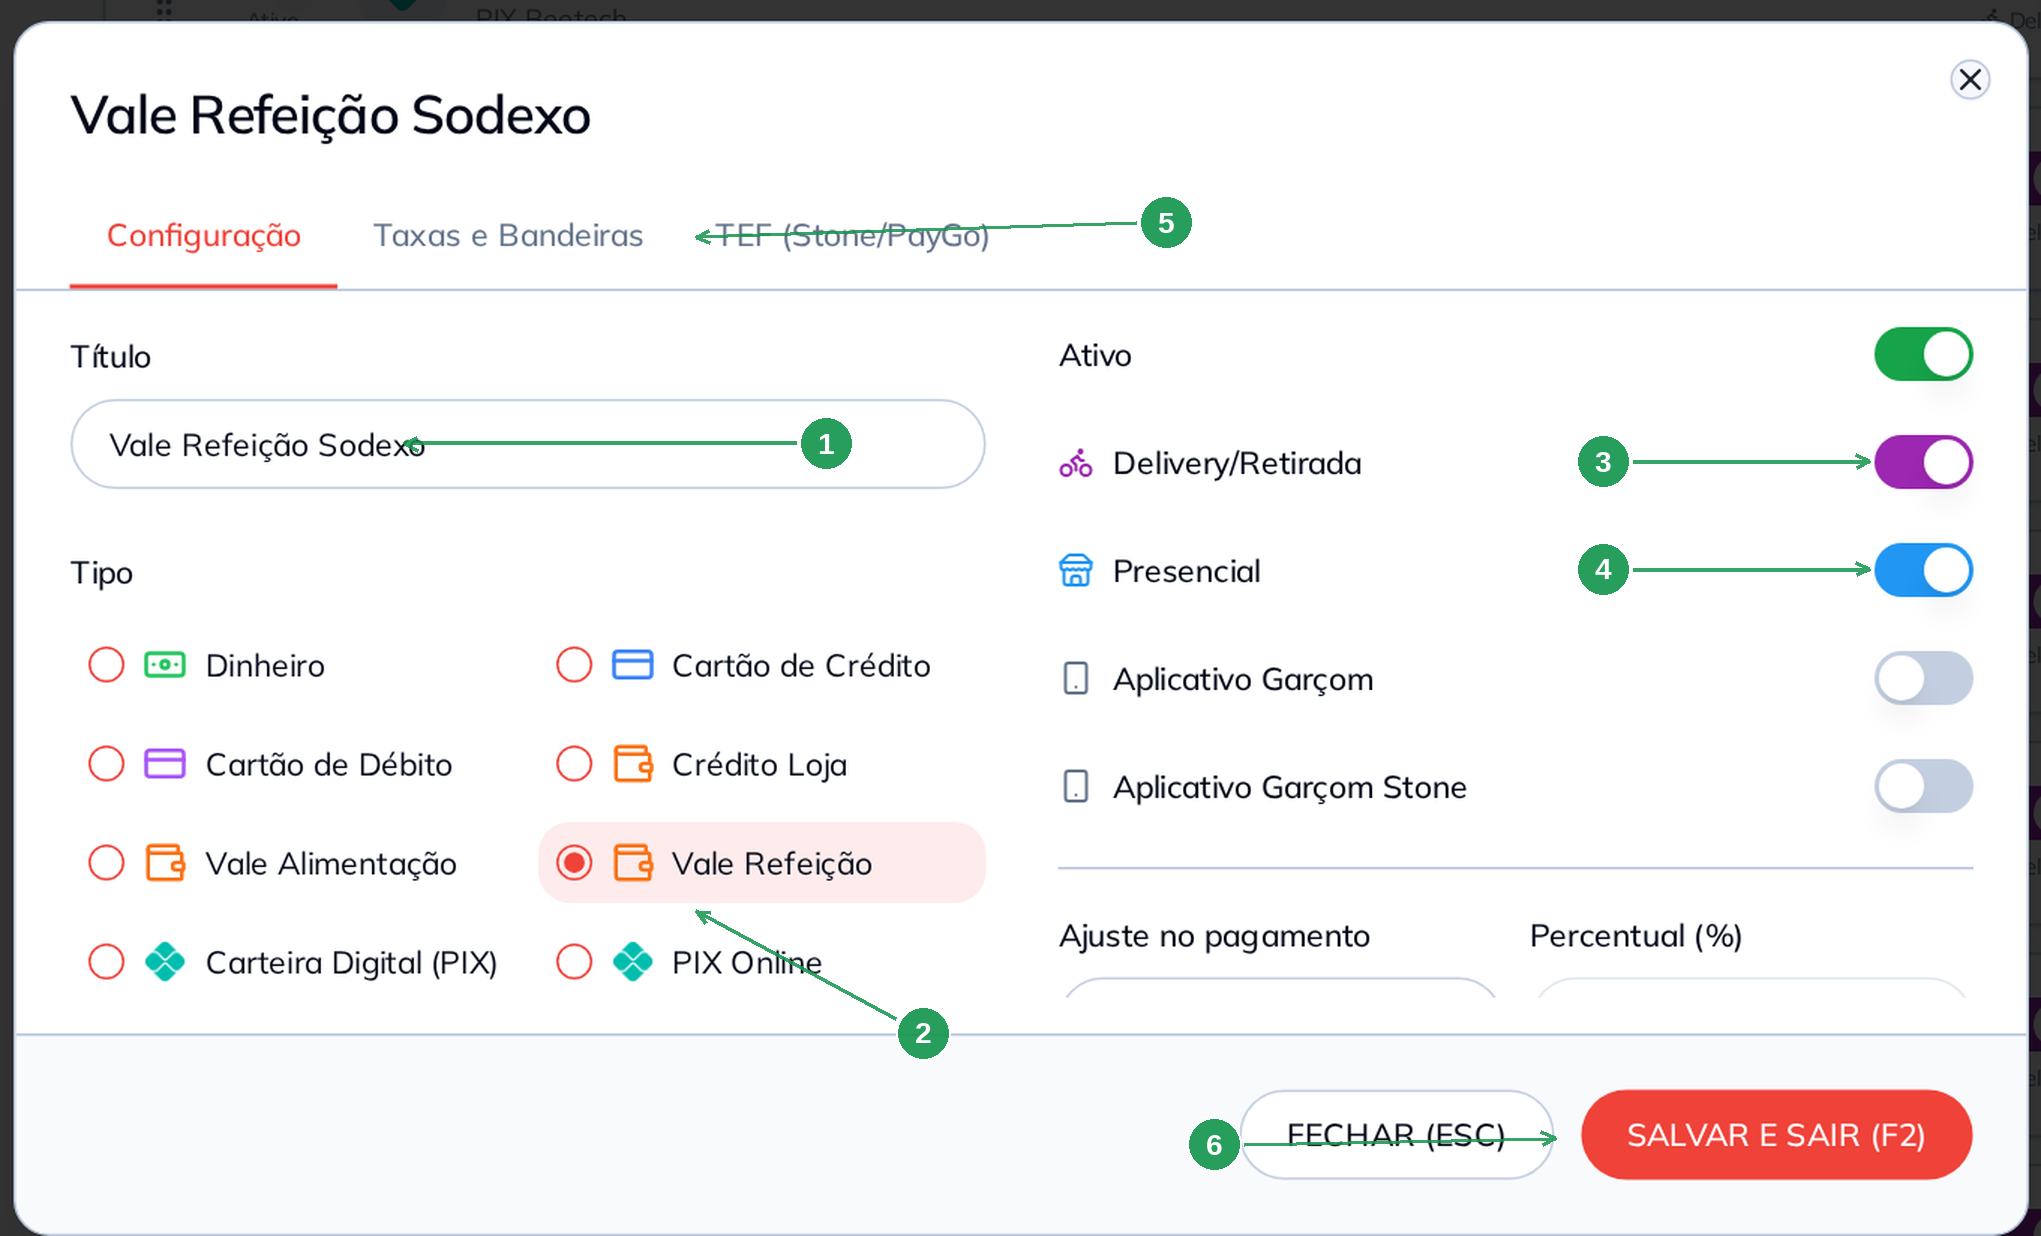
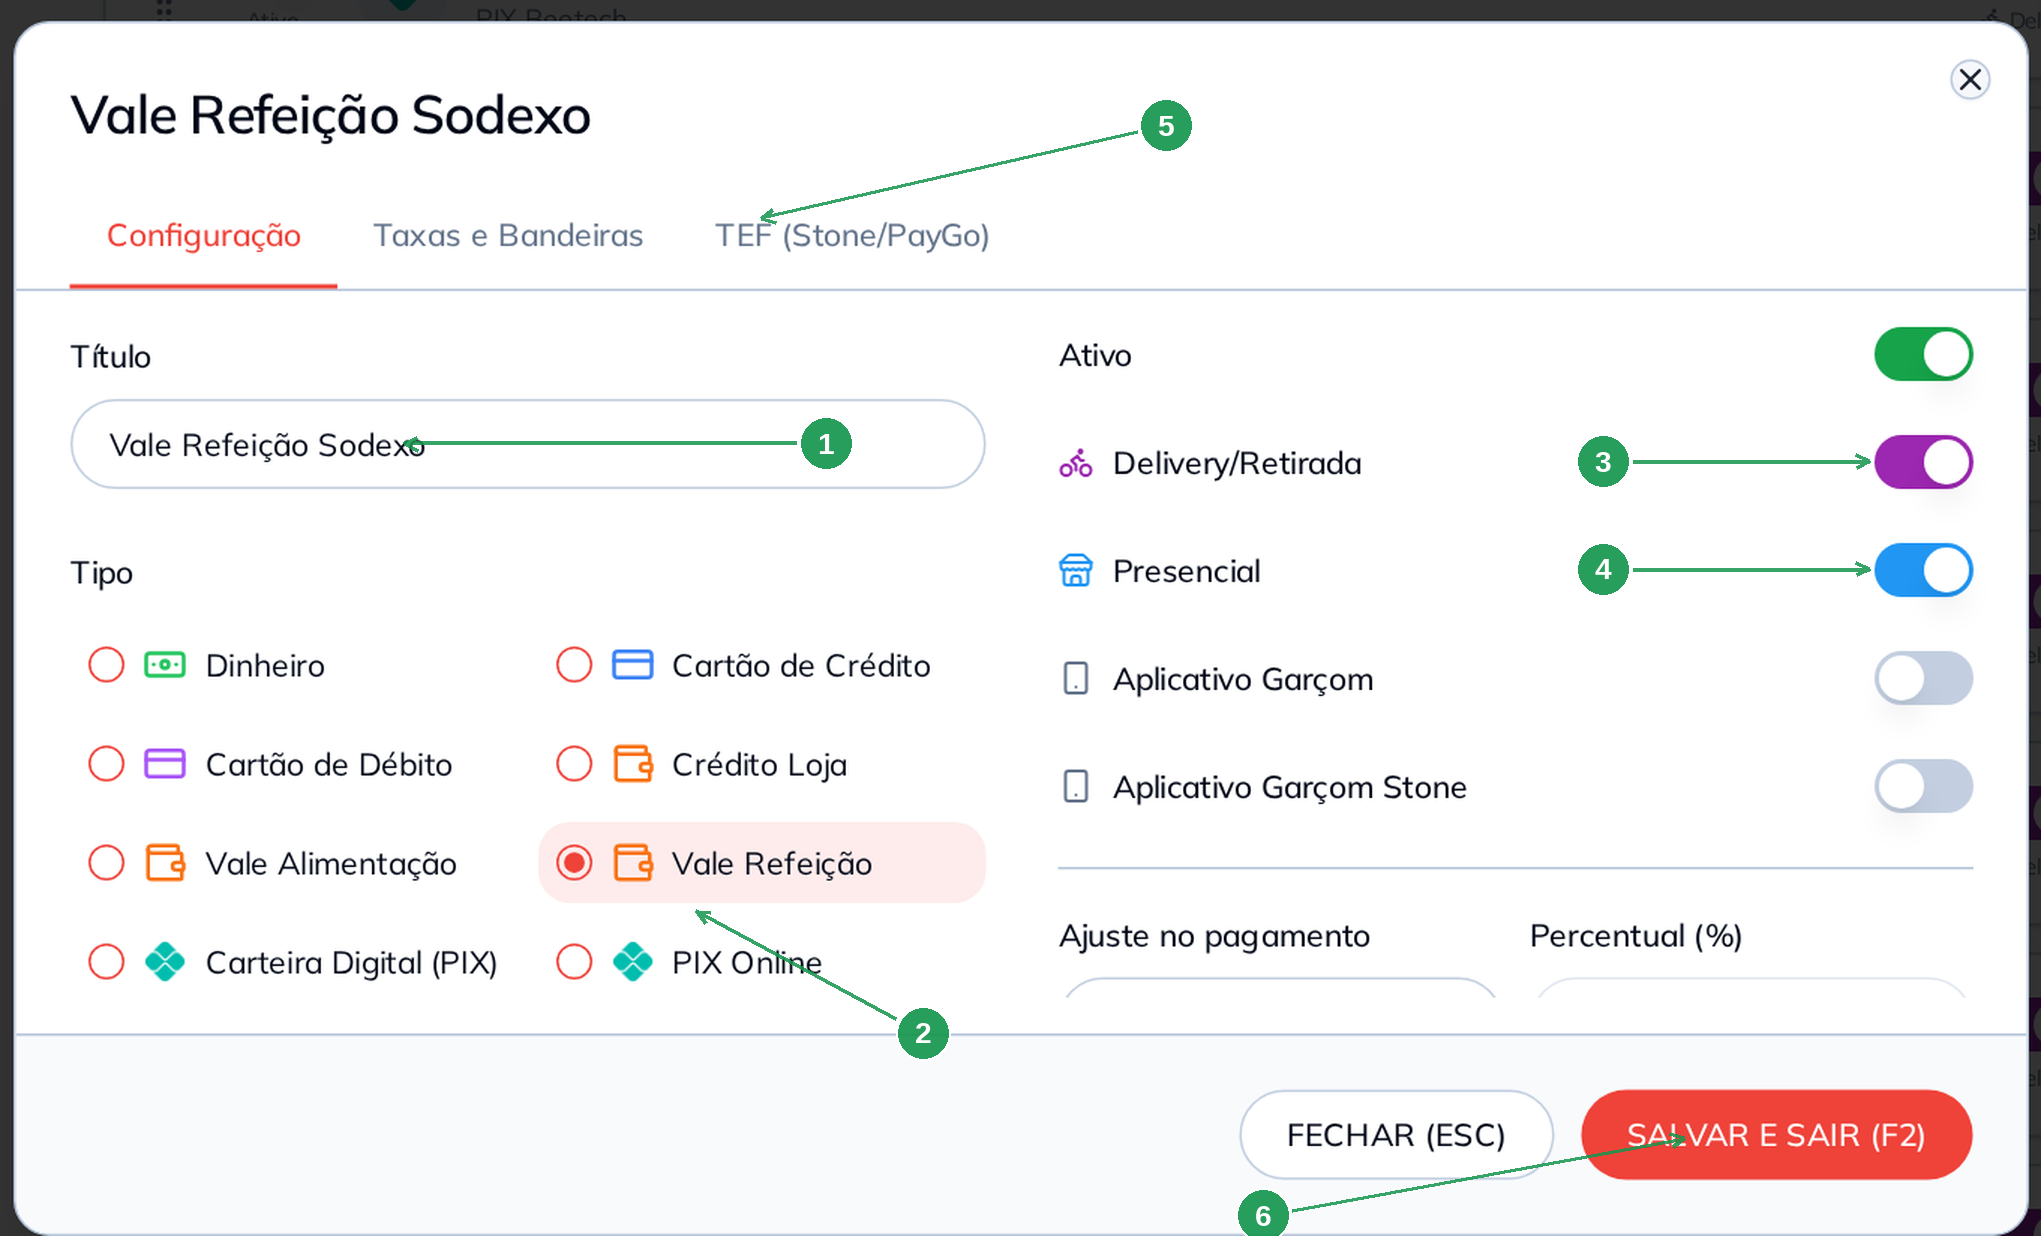
fix(#82): ajusta duas setas do modal de forma de recebimento

diff --git a/manuais/formas-recebimento/annotate.py b/manuais/formas-recebimento/annotate.py
@@ -142,8 +142,8 @@ annotate(
         (2, 0.400, 0.640, 0.470, 0.700),   # Tipo
         (3, 0.762, 0.418, 0.680, 0.418),   # Delivery/Retirada
         (4, 0.762, 0.471, 0.680, 0.471),   # Presencial
-        (5, 0.400, 0.307, 0.545, 0.300),   # as tres abas
-        (6, 0.665, 0.752, 0.560, 0.755),   # SALVAR E SAIR (F2)
+        (5, 0.420, 0.298, 0.545, 0.252),   # as tres abas
+        (6, 0.705, 0.752, 0.575, 0.790),   # SALVAR E SAIR (F2)
     ],
     recorte=MODAL,
     escala=1.5,
